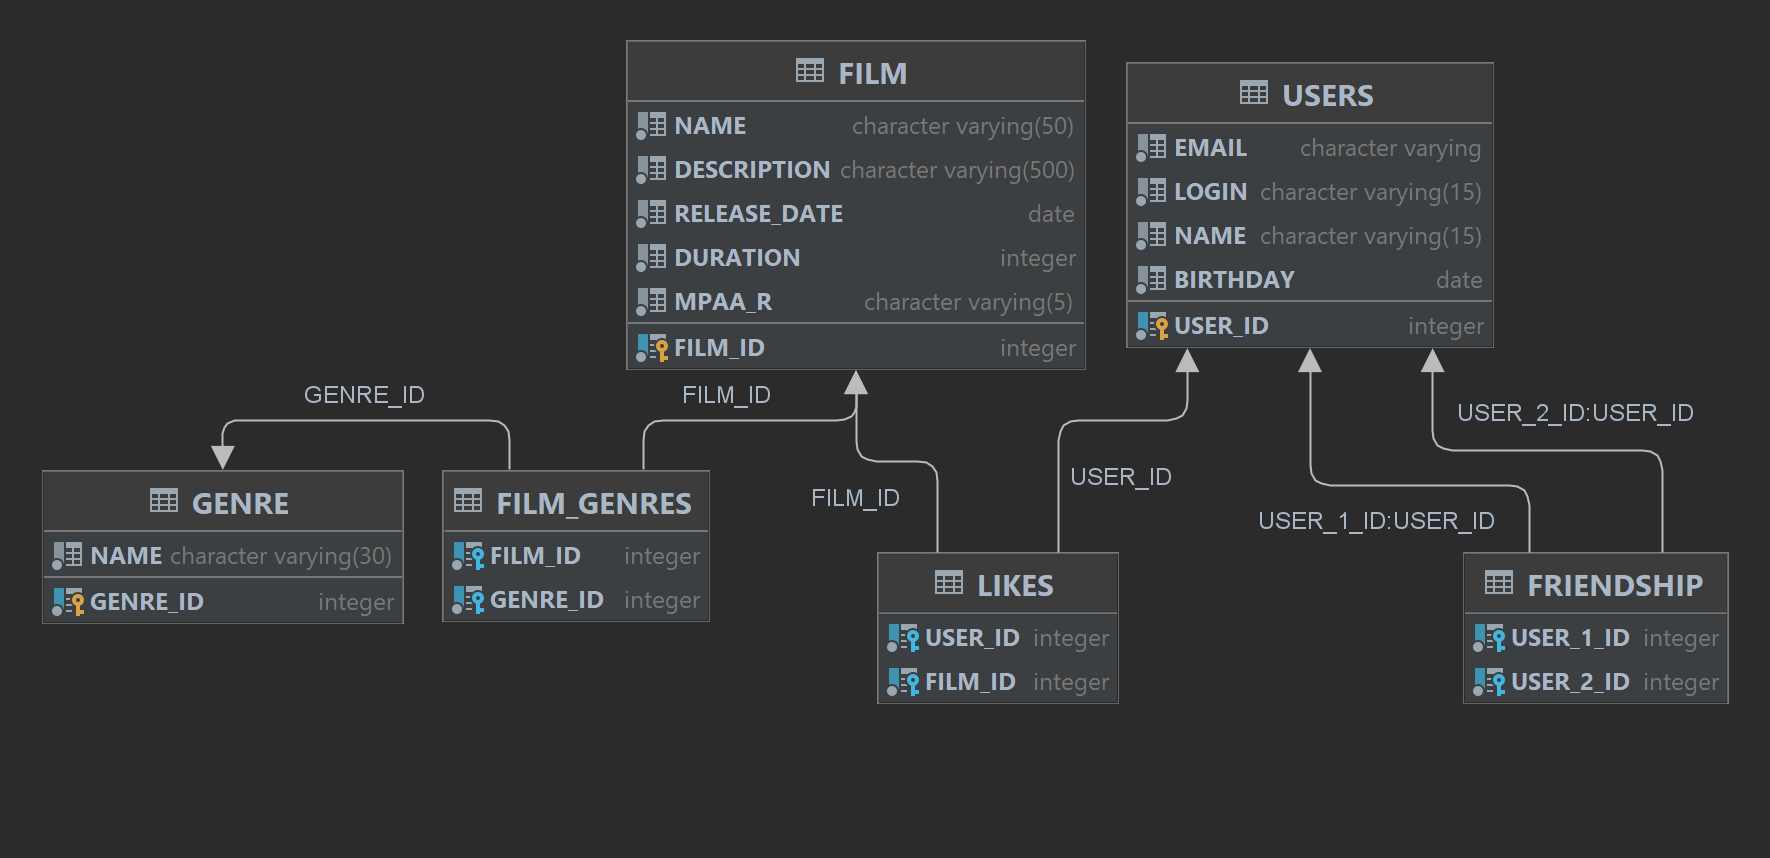
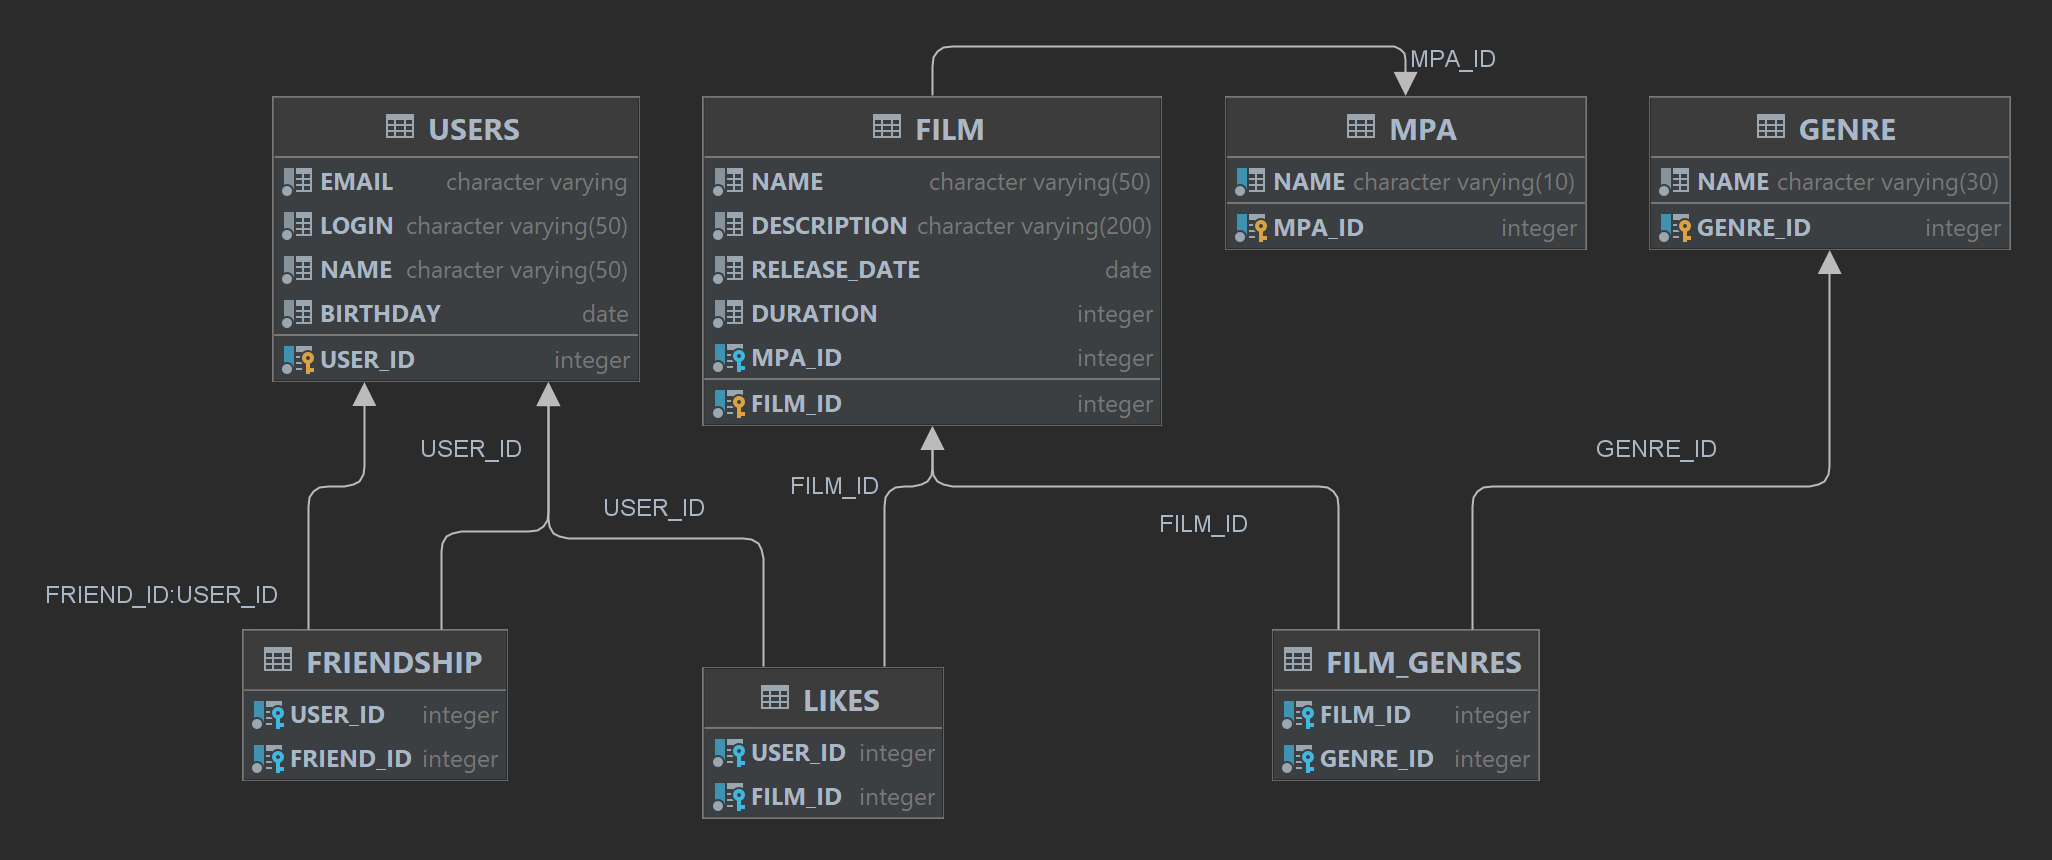
fix: внесены исправления на основе тестов

diff --git a/src/main/java/ru/yandex/practicum/filmorate/dao/FilmDaoImpl.java b/src/main/java/ru/yandex/practicum/filmorate/dao/FilmDaoImpl.java
@@ -2,12 +2,15 @@ package ru.yandex.practicum.filmorate.dao;
 
 import org.springframework.beans.factory.annotation.Autowired;
 import org.springframework.dao.DataAccessException;
+import org.springframework.jdbc.core.BatchPreparedStatementSetter;
 import org.springframework.jdbc.core.JdbcTemplate;
 import org.springframework.jdbc.core.simple.SimpleJdbcInsert;
 import org.springframework.stereotype.Component;
 import ru.yandex.practicum.filmorate.model.Film;
+import ru.yandex.practicum.filmorate.model.Genre;
 import ru.yandex.practicum.filmorate.model.Mpa;
 
+import java.sql.PreparedStatement;
 import java.sql.ResultSet;
 import java.sql.SQLException;
 import java.util.HashMap;
@@ -56,6 +59,7 @@ public class FilmDaoImpl implements FilmDao {
         filmMap.put("mpa_id", film.getMpa().getId());
 
         int filmId = simpleJdbcInsert.executeAndReturnKey(filmMap).intValue();
+        updateFilmGenres(film.getGenres(), filmId);
         return getFilm(filmId);
     }
 
@@ -70,6 +74,8 @@ public class FilmDaoImpl implements FilmDao {
                 film.getDuration(),
                 film.getMpa().getId(),
                 film.getId());
+        jdbcTemplate.update("DELETE FROM FILM_GENRES WHERE FILM_ID = ?", film.getId());
+        updateFilmGenres(film.getGenres(), film.getId());
         return getFilm(film.getId());
     }
 
@@ -87,16 +93,8 @@ public class FilmDaoImpl implements FilmDao {
 
     @Override
     public List<Optional<Film>> getMostPopularFilms(int limitSize) {
-        String sqlQuery = "SELECT " +
-                "F.FILM_ID, " +
-                "F.NAME, " +
-                "F.DESCRIPTION, " +
-                "F.RELEASE_DATE, " +
-                "F.DURATION, " +
-                "M.MPA_ID AS mpa_id, " +
-                "M.NAME AS mpa_name, " +
-                "G.GENRE_ID, " +
-                "G.NAME AS genre_name, " +
+        String sqlQuery = "SELECT F.FILM_ID, F.NAME, F.DESCRIPTION, F.RELEASE_DATE, F.DURATION, M.MPA_ID AS mpa_id, " +
+                "M.NAME AS mpa_name, G.GENRE_ID, G.NAME AS genre_name, " +
                 "COUNT(L.FILM_ID) AS likes " +
                 "FROM FILM AS F " +
                 "INNER JOIN MPA M ON F.MPA_ID = M.MPA_ID " +
@@ -120,5 +118,31 @@ public class FilmDaoImpl implements FilmDao {
                 .genres(daoGenre.getAllByIdFilm(resultSet.getInt("film_id"))
                         .stream().flatMap(Optional::stream).collect(Collectors.toList()))
                 .build());
+    }
+
+    private void updateFilmGenres(List<Genre> genres, int filmId) {
+        if (genres == null) {
+            return;
+        }
+
+        List<Integer> genreUniqueIds = genres.stream()
+                .map(Genre::getId)
+                .distinct()
+                .collect(Collectors.toList());
+
+        String sqlQuery = "INSERT INTO FILM_GENRES VALUES(?, ?)";
+        jdbcTemplate.batchUpdate(
+                sqlQuery,
+                new BatchPreparedStatementSetter() {
+                    public void setValues(PreparedStatement ps, int i) throws SQLException {
+                        int genreId = genreUniqueIds.get(i);
+                        ps.setInt(1, filmId);
+                        ps.setInt(2, genreId);
+                    }
+
+                    public int getBatchSize() {
+                        return genreUniqueIds.size();
+                    }
+                });
     }
 }

diff --git a/src/test/java/ru/yandex/practicum/filmorate/dao/FilmDaoTest.java b/src/test/java/ru/yandex/practicum/filmorate/dao/FilmDaoTest.java
@@ -1,0 +1,51 @@
+package ru.yandex.practicum.filmorate.dao;
+
+
+import lombok.RequiredArgsConstructor;
+import org.junit.jupiter.api.Assertions;
+import org.junit.jupiter.api.Test;
+import org.springframework.beans.factory.annotation.Autowired;
+import org.springframework.boot.test.autoconfigure.jdbc.AutoConfigureTestDatabase;
+import org.springframework.boot.test.context.SpringBootTest;
+import ru.yandex.practicum.filmorate.model.Film;
+import ru.yandex.practicum.filmorate.model.Mpa;
+
+import java.time.LocalDate;
+import java.util.Collections;
+
+@SpringBootTest
+@AutoConfigureTestDatabase
+@RequiredArgsConstructor(onConstructor_ = @Autowired)
+public class FilmDaoTest {
+    private final FilmDao filmDao;
+    private final Film film1 = Film.builder()
+            .id(1)
+            .name("name")
+            .description("")
+            .releaseDate(LocalDate.of(2000, 1, 1))
+            .duration(120)
+            .mpa(new Mpa(1, "G"))
+            .genres(Collections.emptyList())
+            .build();
+
+    private final Film film2 = Film.builder()
+            .id(1)
+            .name("name")
+            .description("")
+            .releaseDate(LocalDate.of(2000, 1, 1))
+            .duration(120)
+            .mpa(new Mpa(1, "G"))
+            .genres(Collections.emptyList())
+            .build();
+
+    @Test
+    void getByIdTestShouldBeTrue() {
+        Assertions.assertEquals(filmDao.createFilm(film1).get(), film1);
+    }
+
+    @Test
+    void updateFilmTestShouldTrue() {
+        filmDao.createFilm(film1);
+        Assertions.assertEquals(filmDao.updateFilm(film2).get(), film2);
+    }
+}

diff --git a/src/test/java/ru/yandex/practicum/filmorate/dao/UserDaoTest.java b/src/test/java/ru/yandex/practicum/filmorate/dao/UserDaoTest.java
@@ -1,0 +1,50 @@
+package ru.yandex.practicum.filmorate.dao;
+
+import lombok.RequiredArgsConstructor;
+import org.junit.jupiter.api.Assertions;
+import org.junit.jupiter.api.Test;
+import org.springframework.beans.factory.annotation.Autowired;
+import org.springframework.boot.test.autoconfigure.jdbc.AutoConfigureTestDatabase;
+import org.springframework.boot.test.context.SpringBootTest;
+import ru.yandex.practicum.filmorate.model.User;
+
+import java.time.LocalDate;
+import java.util.List;
+
+@SpringBootTest
+@AutoConfigureTestDatabase
+@RequiredArgsConstructor(onConstructor_ = @Autowired)
+public class UserDaoTest {
+    private final UserDao userDao;
+    private final User user1 = User.builder()
+            .id(1)
+            .email("test@yandex.ru")
+            .login("login1")
+            .name("name")
+            .birthday(LocalDate.of(2000, 1, 1))
+            .build();
+    private final User user2 = User.builder()
+            .id(1)
+            .email("test2@yandex.ru")
+            .login("login2")
+            .name("name2")
+            .birthday(LocalDate.of(2001, 1, 1))
+            .build();
+
+    @Test
+    void getByIdTestShouldBeTrue() {
+        Assertions.assertEquals(userDao.createUser(user1).get(), user1);
+    }
+
+    @Test
+    void deleteUserByIdTestShouldBeTrue() {
+        userDao.deleteUser(1);
+        Assertions.assertEquals(List.of(), userDao.getAll());
+    }
+
+    @Test
+    void updateUserTestShouldTrue() {
+        userDao.createUser(user1);
+        Assertions.assertEquals(userDao.updateUser(user2).get(), user2);
+    }
+}

diff --git a/src/main/java/ru/yandex/practicum/filmorate/dao/UserDaoImpl.java b/src/main/java/ru/yandex/practicum/filmorate/dao/UserDaoImpl.java
@@ -91,16 +91,17 @@ public class UserDaoImpl implements UserDao {
 
     @Override
     public List<Optional<User>> getFriends(int id) {
-        String sqlQuery = "SELECT U.USER_ID, EMAIL, LOGIN, NAME, BIRTHDAY" +
-                " FROM USERS U, FRIENDSHIP F WHERE U.USER_ID = ? AND F.USER_ID = U.USER_ID";
+        String sqlQuery = "SELECT U.USER_ID, U.EMAIL, U.LOGIN, U.NAME, U.BIRTHDAY " +
+                "FROM FRIENDSHIP F, USERS U WHERE F.USER_ID = ? AND U.USER_ID = F.FRIEND_ID";
+
         return jdbcTemplate.query(sqlQuery, this::mapRowToUser, id);
     }
 
     @Override
     public List<Optional<User>> getMutualFriends(int id, int otherId) {
-        String sqlQuery = "SELECT U.USER_ID, EMAIL, LOGIN, NAME, BIRTHDAY" +
-                " FROM USERS U, FRIENDSHIP F1, FRIENDSHIP F2" +
-                " WHERE F1.USER_ID = ? AND F2.USER_ID = ? AND F1.USER_ID = U.USER_ID AND F1.FRIEND_ID = F2.FRIEND_ID";
+        String sqlQuery = "SELECT U.USER_ID, U.EMAIL, U.LOGIN, U.NAME, U.BIRTHDAY " +
+                "FROM FRIENDSHIP AS F JOIN USERS AS U ON U.USER_ID = F.FRIEND_ID WHERE F.USER_ID = ? AND F.FRIEND_ID " +
+                "IN (SELECT FRIEND_ID FROM FRIENDSHIP WHERE USER_ID = ?)";
         return jdbcTemplate.query(sqlQuery, this::mapRowToUser, id, otherId);
     }
 

diff --git a/src/main/java/ru/yandex/practicum/filmorate/service/FilmService.java b/src/main/java/ru/yandex/practicum/filmorate/service/FilmService.java
@@ -7,7 +7,6 @@ import ru.yandex.practicum.filmorate.dao.MpaDao;
 import ru.yandex.practicum.filmorate.dao.UserDao;
 import ru.yandex.practicum.filmorate.exception.NotFoundException;
 import ru.yandex.practicum.filmorate.model.Film;
-import ru.yandex.practicum.filmorate.model.Mpa;
 
 import java.util.List;
 import java.util.Optional;
@@ -51,13 +50,13 @@ public class FilmService {
     }
 
     private void throwIfNFMpaOrGenre(Film film) {
-        Mpa mpa = mpaDao.getById(film.getMpa().getId())
+        mpaDao.getById(film.getMpa().getId())
                 .orElseThrow(() -> new NotFoundException(String.format("mpa id%s", film.getMpa().getId())));
-        film.getGenres().forEach(genre -> {
-            if (daoGenre.getById(genre.getId()).isEmpty()) {
-                throw new NotFoundException(String.format("genre id%s", genre.getId()));
-            }
-        });
+//        film.getGenres().forEach(genre -> {
+//            if (daoGenre.getById(genre.getId()).isEmpty()) {
+//                throw new NotFoundException(String.format("genre id%s", genre.getId()));
+//            }
+//        });
     }
 
     public void addLike(int filmId, int userId) {

diff --git a/src/main/java/ru/yandex/practicum/filmorate/model/Film.java b/src/main/java/ru/yandex/practicum/filmorate/model/Film.java
@@ -2,7 +2,10 @@ package ru.yandex.practicum.filmorate.model;
 
 import lombok.*;
 
-import javax.validation.constraints.*;
+import javax.validation.constraints.NotBlank;
+import javax.validation.constraints.PastOrPresent;
+import javax.validation.constraints.Positive;
+import javax.validation.constraints.Size;
 import java.time.LocalDate;
 import java.util.List;
 
@@ -12,12 +15,12 @@ import java.util.List;
 @NoArgsConstructor
 @AllArgsConstructor
 @Builder
+@EqualsAndHashCode
 public class Film {
     private List<Genre> genres;
 
     private Mpa mpa;
 
-    @PositiveOrZero(message = "id должен быть положительным")
     private int id;
 
     @NotBlank(message = "название не должно состоять из пробелов или быть пустым")

diff --git a/src/main/java/ru/yandex/practicum/filmorate/controller/MpaController.java b/src/main/java/ru/yandex/practicum/filmorate/controller/MpaController.java
@@ -2,17 +2,17 @@ package ru.yandex.practicum.filmorate.controller;
 
 import lombok.extern.slf4j.Slf4j;
 import org.springframework.beans.factory.annotation.Autowired;
-import org.springframework.stereotype.Controller;
 import org.springframework.web.bind.annotation.GetMapping;
 import org.springframework.web.bind.annotation.PathVariable;
 import org.springframework.web.bind.annotation.RequestMapping;
+import org.springframework.web.bind.annotation.RestController;
 import ru.yandex.practicum.filmorate.model.Mpa;
 import ru.yandex.practicum.filmorate.service.MpaService;
 
 import java.util.List;
 
 @Slf4j
-@Controller
+@RestController
 @RequestMapping("/mpa")
 public class MpaController {
     private final MpaService mpaService;

diff --git a/src/main/java/ru/yandex/practicum/filmorate/model/User.java b/src/main/java/ru/yandex/practicum/filmorate/model/User.java
@@ -5,7 +5,6 @@ import lombok.*;
 import javax.validation.constraints.Email;
 import javax.validation.constraints.NotBlank;
 import javax.validation.constraints.PastOrPresent;
-import javax.validation.constraints.PositiveOrZero;
 import java.time.LocalDate;
 
 @With
@@ -13,9 +12,9 @@ import java.time.LocalDate;
 @NoArgsConstructor
 @AllArgsConstructor
 @Builder
+@EqualsAndHashCode
 public class User {
 
-    @PositiveOrZero(message = "id должен быть положительным")
     private int id;
 
     @NotBlank(message = "login не должен состоять из пробелов или быть пустым")

diff --git a/src/main/java/ru/yandex/practicum/filmorate/dao/DaoGenreImpl.java b/src/main/java/ru/yandex/practicum/filmorate/dao/DaoGenreImpl.java
@@ -39,8 +39,8 @@ public class DaoGenreImpl implements DaoGenre {
     @Override
     public List<Optional<Genre>> getAllByIdFilm(int filmId) {
         String sqlQuery = "SELECT FG.GENRE_ID AS genre_id, G.NAME AS name " +
-                "FROM FILM_GENRES FG, GENRE G " +
-                "WHERE FG.FILM_ID = ? AND FG.GENRE_ID = G.GENRE_ID";
+                "FROM FILM_GENRES AS FG JOIN GENRE AS G ON FG.GENRE_ID = G.GENRE_ID " +
+                "WHERE FG.FILM_ID = ?";
         try {
             return jdbcTemplate.query(sqlQuery, this::mapRowToGenre, filmId);
         } catch (DataAccessException exception) {

diff --git a/src/main/java/ru/yandex/practicum/filmorate/model/Mpa.java b/src/main/java/ru/yandex/practicum/filmorate/model/Mpa.java
@@ -8,6 +8,6 @@ import lombok.*;
 @AllArgsConstructor
 @Builder
 public class Mpa {
-    private Integer id;
+    private int id;
     private String name;
 }

diff --git a/src/main/java/ru/yandex/practicum/filmorate/dao/MpaDao.java b/src/main/java/ru/yandex/practicum/filmorate/dao/MpaDao.java
@@ -7,5 +7,6 @@ import java.util.Optional;
 
 public interface MpaDao {
     List<Optional<Mpa>> getAll();
+
     Optional<Mpa> getById(int id);
 }
